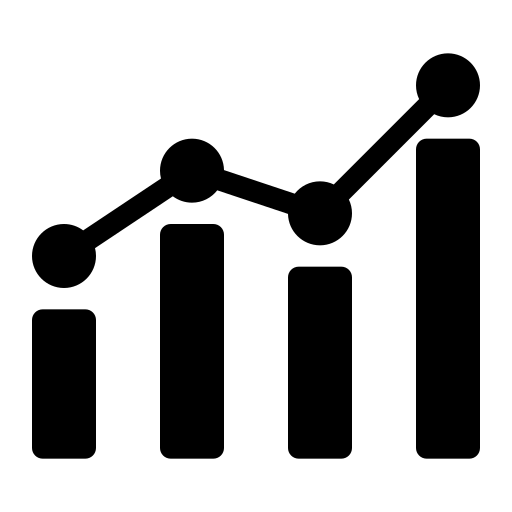
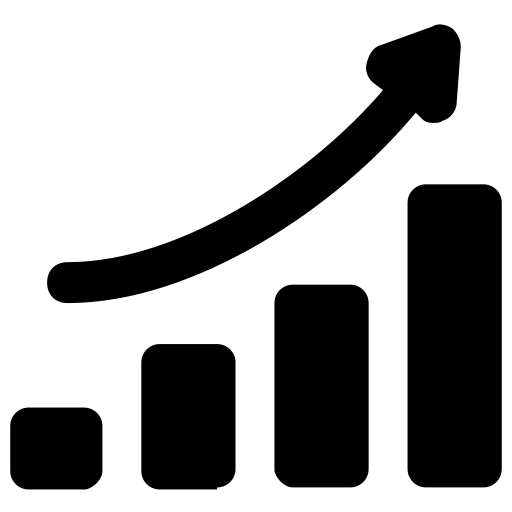
upgraded the mainpage

Changed region(s): [[0.0, 0.0312, 1.0, 0.9688], [0.5312, 0.5625, 0.7188, 0.9688]]

diff --git a/src/components/MainBody/Mainbody.jsx b/src/components/MainBody/Mainbody.jsx
@@ -56,37 +56,39 @@ export default function Mainbody() {
           <div className="scroll-icon"></div>
         </a>
         <div className="stats-wrapper">
-          <img className="graph" src={Graph} alt="" />
           <h1>My Current Stats</h1>
           <div>
             <div className="stats">
-              <div>
-                <h1 className="num">
-                  <Counter
-                    targetNumber={daysDifference}
-                    startValue={650}
-                    symbol={"+"}
-                  />
-                </h1>
-                <h6>Days Coding</h6>
-              </div>
-              <div>
-                <h1>
-                  <Counter targetNumber={7} startValue={0} symbol={"+"} />
-                </h1>
-                <h6>Finished Projects</h6>
-              </div>
-              <div>
-                <h1>
-                  <Counter targetNumber={14} startValue={0} symbol={"+"} />
-                </h1>
-                <h6>Github repos</h6>
-              </div>
-              <div>
-                <h1>
-                  <Counter targetNumber={212} startValue={150} symbol={"+"} />
-                </h1>
-                <h6>Github Contributions</h6>
+              <img className="graph" src={Graph} alt="" />
+              <div className="stats-items">
+                <div className="stats-days">
+                  <h1>
+                    <Counter
+                      targetNumber={daysDifference}
+                      startValue={650}
+                      symbol={"+"}
+                    />
+                  </h1>
+                  <h5>Days Coding</h5>
+                </div>
+                <div className="stats-projects">
+                  <h1>
+                    <Counter targetNumber={7} startValue={0} symbol={"+"} />
+                  </h1>
+                  <h5>Finished Projects</h5>
+                </div>
+                <div className="stats-repositories">
+                  <h1>
+                    <Counter targetNumber={14} startValue={0} symbol={"+"} />
+                  </h1>
+                  <h5>Github repositories</h5>
+                </div>
+                <div className="stats-contributions">
+                  <h1>
+                    <Counter targetNumber={212} startValue={150} symbol={"+"} />
+                  </h1>
+                  <h5>Github Contributions</h5>
+                </div>
               </div>
             </div>
           </div>

diff --git a/src/components/MainBody/Mainbody.css b/src/components/MainBody/Mainbody.css
@@ -15,17 +15,12 @@ main {
 }
 .mainbody-wrapper {
   width: 64rem;
-  border: 1px solid red;
   display: flex;
   align-items: center;
   justify-content: space-between;
 }
 .introduction {
   width: 50%;
-  border: 1px solid blue;
-}
-.num {
-  transition: all 1s cubic-bezier(0.42, 0, 0.58, 1);
 }
 .scroll {
   position: absolute;
@@ -35,28 +30,40 @@ main {
 }
 .stats-wrapper {
   position: relative;
-  border: 1px solid red;
   width: 50%;
   height: 25rem;
   display: flex;
   justify-content: center;
   align-items: center;
-  flex-direction: column;
 }
 .stats-wrapper>h1{
     position: absolute;
     top:0;
 }
+.stats-projects,
+.stats-contributions,
+.stats-days,
+.stats-repositories{
+    display: flex;
+    justify-content: center;
+    align-items: center;
+    flex-direction: column;
+    margin: 1rem;
+    border-bottom: 2px solid black;
+    text-align: center;
+    padding-bottom: 2px;
+}
 .graph {
-  height: 18.5rem;
-  position: absolute;
-  top: 50%;
-  left: 50%;
+  height: 60%;
   opacity: 0.2;
-  transform: translate(-50%, -50%);
+  height: auto;
+  width: 60%;
 }
 .stats {
   z-index: 2;
+  display: flex;
+  align-items: center;
+  justify-content: center;
 }
 .scroll-icon {
   width: 20px;
